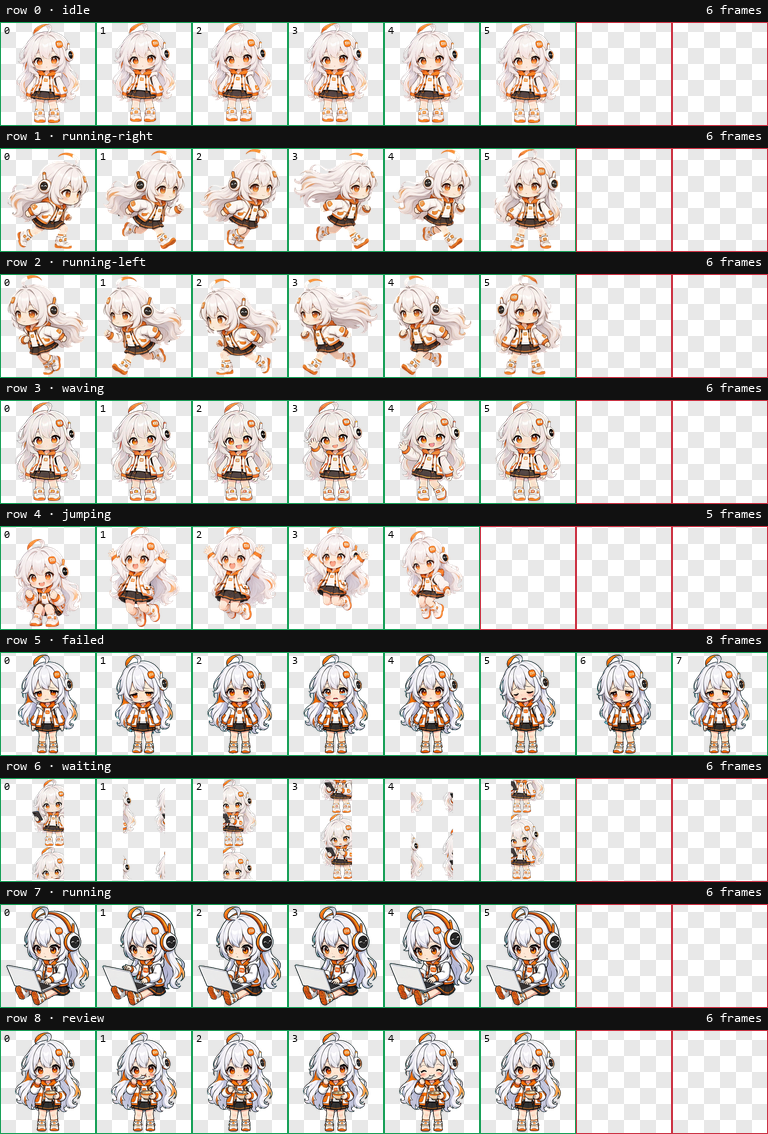
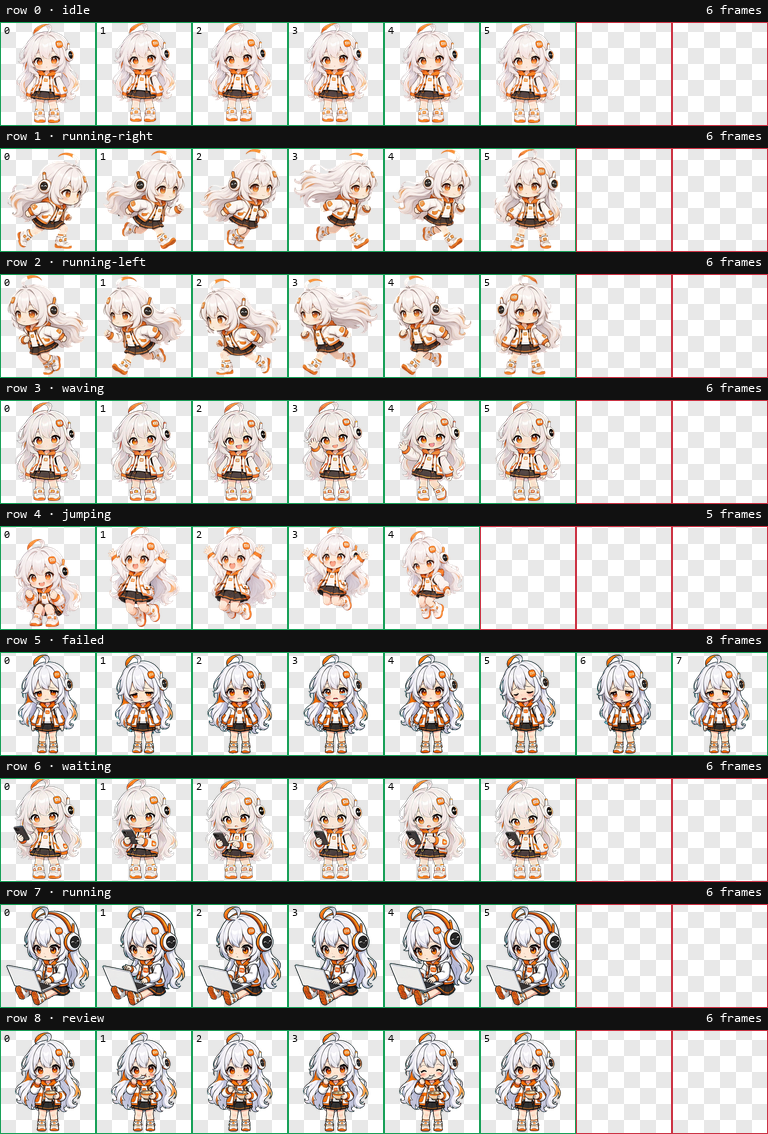
Fix the phone row: split the sheet on its real 2x3 grid
The sheet was split as 3x2 when it is 2 columns by 3 rows, so every cell cut through the middle of a figure. The grid is now detected from the alpha projections (content runs per row/column) instead of assumed, and the row is rebuilt: six complete frames, 198-202px tall, grounded at y=202. The other rows were checked against their sheet layouts and were already split correctly.

diff --git a/README.md b/README.md
@@ -4,7 +4,7 @@
 
 ## 下载（推荐）
 
-**[📥 下载安装包 MimoPet-Setup-1.1.1.exe](https://github.com/Darry-cpu/mimo-pet/releases/latest)**
+**[📥 下载安装包 MimoPet-Setup-1.1.2.exe](https://github.com/Darry-cpu/mimo-pet/releases/latest)**
 
 双击即可安装，**无需管理员权限、无需安装 Python**。全部版本见 [Releases](https://github.com/Darry-cpu/mimo-pet/releases)。
 
